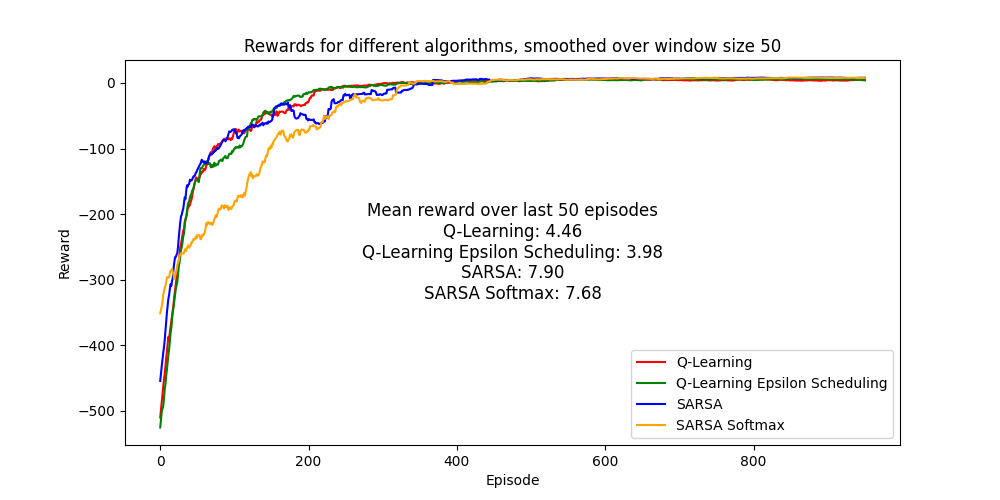
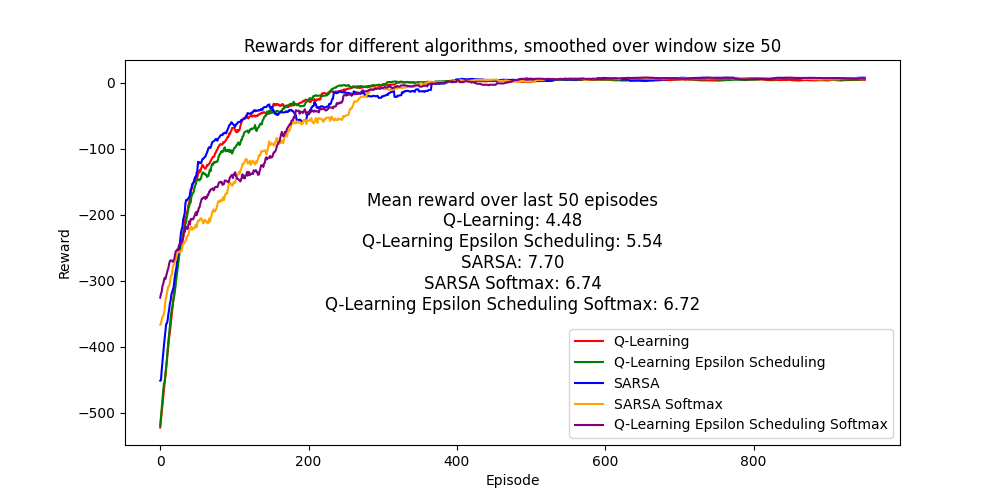
UPDATE(report.md)+ADD(qle-softmax).

diff --git a/taxi.py b/taxi.py
@@ -101,7 +101,7 @@ if __name__ == "__main__":
     )
     sarsa_rewards = get_rewards_and_generate_gifs(agent, env, "sarsa")
     #################################
-    # 3. Play with SARSA with softmax
+    # 4. Play with SARSA with softmax
     #################################
     agent = SarsaAgent(
         learning_rate=0.5,
@@ -110,6 +110,20 @@ if __name__ == "__main__":
         policy="softmax",
     )
     sarsa_softmax_rewards = get_rewards_and_generate_gifs(agent, env, "sarsa-softmax")
+    #################################
+    # 5. Play with Q-learning with softmax
+    #################################
+    agent = QLearningAgentEpsScheduling(
+        learning_rate=0.5,
+        epsilon=0.1,
+        gamma=0.99,
+        legal_actions=list(range(n_actions)),
+        policy="softmax",
+    )
+    ql_eps_softmax_rewards = get_rewards_and_generate_gifs(
+        agent, env, "qlearning-eps-softmax"
+    )
+
     # plot rewards
     fig = plt.figure(figsize=(10, 5))
     ax = fig.add_subplot(111)
@@ -120,11 +134,13 @@ if __name__ == "__main__":
     final_ql_eps_reward = np.mean(ql_eps_rewards[-window:])
     final_sarsa_reward = np.mean(sarsa_rewards[-window:])
     final_sarsa_softmax_reward = np.mean(sarsa_softmax_rewards[-window:])
+    final_ql_eps_softmax_reward = np.mean(ql_eps_softmax_rewards[-window:])
 
     ql_rewards = np.array(ql_rewards)
     ql_eps_rewards = np.array(ql_eps_rewards)
     sarsa_rewards = np.array(sarsa_rewards)
     sarsa_softmax_rewards = np.array(sarsa_softmax_rewards)
+    ql_eps_softmax_rewards = np.array(ql_eps_softmax_rewards)
 
     ql_rewards = np.convolve(ql_rewards, np.ones(window) / window, mode="valid")
     ql_eps_rewards = np.convolve(ql_eps_rewards, np.ones(window) / window, mode="valid")
@@ -132,12 +148,19 @@ if __name__ == "__main__":
     sarsa_softmax_rewards = np.convolve(
         sarsa_softmax_rewards, np.ones(window) / window, mode="valid"
     )
+    ql_eps_softmax_rewards = np.convolve(
+        ql_eps_softmax_rewards, np.ones(window) / window, mode="valid"
+    )
 
     ax.plot(ql_rewards, label="Q-Learning", color="red")
     ax.plot(ql_eps_rewards, label="Q-Learning Epsilon Scheduling", color="green")
     ax.plot(sarsa_rewards, label="SARSA", color="blue")
     ax.plot(sarsa_softmax_rewards, label="SARSA Softmax", color="orange")
-
+    ax.plot(
+        ql_eps_softmax_rewards,
+        label="Q-Learning Epsilon Scheduling Softmax",
+        color="purple",
+    )
     text_kwargs = dict(
         ha="center", va="center", fontsize=12, transform=ax.transAxes, color="black"
     )
@@ -146,6 +169,10 @@ if __name__ == "__main__":
     text_to_plot += "\n" + f"Q-Learning Epsilon Scheduling: {final_ql_eps_reward:.2f}"
     text_to_plot += "\n" + f"SARSA: {final_sarsa_reward:.2f}"
     text_to_plot += "\n" + f"SARSA Softmax: {final_sarsa_softmax_reward:.2f}"
+    text_to_plot += (
+        "\n"
+        + f"Q-Learning Epsilon Scheduling Softmax: {final_ql_eps_softmax_reward:.2f}"
+    )
     ax.text(0.5, 0.5, text_to_plot, **text_kwargs)
 
     ax.set_xlabel("Episode")

diff --git a/video_maker.py b/video_maker.py
@@ -21,7 +21,7 @@ def create_gif(agent, env, name, artifact_dir=".", t_max=int(1e4), text=""):
         img = env.render()
         img = cv2.putText(
             img,
-            text=f"{name} agent, {i} steps, total reward: {total_reward}\n" + text,
+            text=f"{name} agent, {i} steps, total reward: {total_reward}" + text,
             org=(10, 30),
             fontFace=cv2.FONT_HERSHEY_DUPLEX,
             fontScale=0.5,

diff --git a/qlearning.py b/qlearning.py
@@ -104,7 +104,8 @@ class QLearningAgent:
               and compare it with your probability
         """
         action = self.legal_actions[0]
-
+        if self.policy is not None:
+            return self.policy(self, state)
         # BEGIN SOLUTION
         if self.epsilon_choice():
             action = random.choice(self.legal_actions)

diff --git a/report.md b/report.md
@@ -2,9 +2,10 @@
 
 ## Q-learning
 
+L'algorithme de 
 ### Implementation
 
-#### Politique $\epsilon$ greedy
+#### Politique $\epsilon$-greedy
 
 
 
@@ -26,25 +27,8 @@
 ## Comparison 
 
 
-
-
-
-
-
-
-
-
-
-
-
-
-
-
-
-
-
-|      | Q-learning   | Q-learning eps   | SARSA   | SARSA with softmax  policy |
-|-----:|:-------------|:-----------------|:--------|:---------------------|
-|  250 | ![](img/qlearning-250-ep.gif)| ![](img/qlearning-eps-250-ep.gif)            | ![](img/sarsa-250-ep.gif)   | ![](img/sarsa-softmax-250-ep.gif)                |
-|  500 | ![](img/qlearning-500-ep.gif)        | ![](img/qlearning-eps-500-ep.gif)            | ![](img/sarsa-500-ep.gif)   | ![](img/sarsa-softmax-500-ep.gif)                |
-| 1000 | ![](img/qlearning-1000-ep.gif)        | ![](img/qlearning-eps-1000-ep.gif)            | ![](img/sarsa-1000-ep.gif)   | ![](img/sarsa-softmax-1000-ep.gif)                |
+|      | Q-learning   | Q-learning eps   | SARSA   | SARSA with softmax  policy | Q-learning with softmax policy|
+|-----:|:-------------|:-----------------|:--------|:---------------------|:---------------------|
+|  250 | ![](img/qlearning-250-ep.gif)| ![](img/qlearning-eps-250-ep.gif) | ![](img/sarsa-250-ep.gif) | ![](img/sarsa-softmax-250-ep.gif) | ![](img/qlearning-eps-softmax-250-ep.gif) |
+|  500 | ![](img/qlearning-500-ep.gif)| ![](img/qlearning-eps-500-ep.gif)  | ![](img/sarsa-500-ep.gif) | ![](img/sarsa-softmax-500-ep.gif) | ![](img/qlearning-eps-softmax-500-ep.gif) |
+| 1000 | ![](img/qlearning-1000-ep.gif) | ![](img/qlearning-eps-1000-ep.gif) | ![](img/sarsa-1000-ep.gif) | ![](img/sarsa-softmax-1000-ep.gif) | ![](img/qlearning-eps-softmax-1000-ep.gif) |
